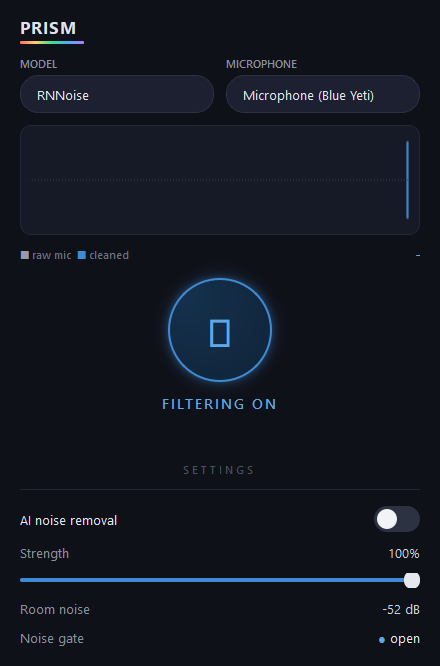
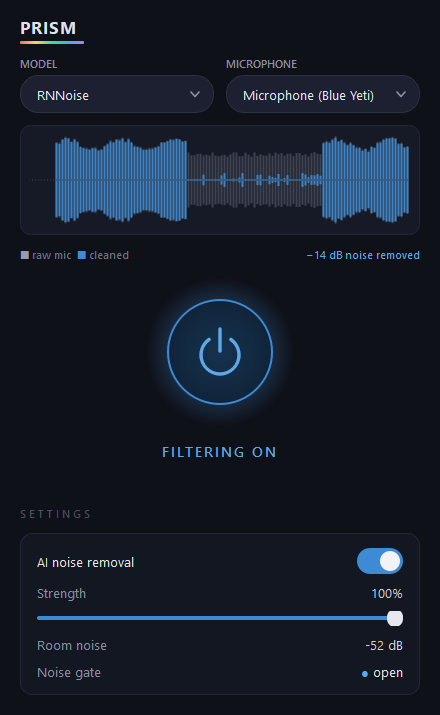
refactor(ui_qt): reimplement hero button and combo boxes

diff --git a/prism/ui_qt.py b/prism/ui_qt.py
@@ -13,16 +13,16 @@ it only *reads* pre-computed numbers, so it never touches the audio callback or
 does DSP.
 """
 
+import sys
 from collections import deque
 
 from PySide6.QtCore import (
-    Property, QEasingCurve, QPropertyAnimation, QRectF, Qt, QTimer,
+    Property, QEasingCurve, QPointF, QPropertyAnimation, QRectF, Qt, QTimer,
 )
-from PySide6.QtGui import QColor, QPainter, QPen
+from PySide6.QtGui import QColor, QPainter, QPen, QPolygonF, QRadialGradient
 from PySide6.QtWidgets import (
-    QApplication, QCheckBox, QComboBox, QFrame, QGraphicsDropShadowEffect,
-    QHBoxLayout, QLabel, QPushButton, QSizePolicy, QSlider, QVBoxLayout,
-    QWidget,
+    QApplication, QCheckBox, QComboBox, QFrame, QHBoxLayout, QLabel,
+    QPushButton, QSizePolicy, QSlider, QVBoxLayout, QWidget,
 )
 
 import sounddevice as sd
@@ -62,23 +62,17 @@ QLabel[class="fieldcap"] { color: #8b90a0; font-size: 11px; font-weight: 600; }
 QLabel[class="muted"] { color: #8b90a0; }
 QLabel[class="reading"] { color: #cfd3de; }
 QLabel[class="legend"] { color: #6d7284; font-size: 11px; }
+QLabel:disabled { color: #565b6a; }
+
+QFrame#card {
+    background: #131722; border: 1px solid #232838; border-radius: 12px;
+}
 
 QFrame#spectrum {
     border: none; max-height: 3px; min-height: 3px; border-radius: 1px;
     background: qlineargradient(x1:0, y1:0, x2:1, y2:0,
         stop:0 #ff6b6b, stop:0.25 #ffd166, stop:0.5 #37e08f,
         stop:0.75 #4dabf7, stop:1 #b57bff);
-}
-
-QPushButton#hero {
-    background: #1a1f2e; border: 2px solid #2c3242; border-radius: 52px;
-    font-size: 40px; font-family: 'Segoe UI Symbol'; color: #7d8296;
-}
-QPushButton#hero:hover { border-color: #3a4152; }
-QPushButton#hero:checked {
-    background: qradialgradient(cx:0.5, cy:0.5, radius:0.7,
-        stop:0 #16334f, stop:1 #10243a);
-    border-color: #3d8bd4; color: #5fa8e8;
 }
 
 /* Pill-shaped pickers (the two dropdowns up top share this look). */
@@ -88,6 +82,8 @@ QComboBox {
 }
 QComboBox:hover { border-color: #3a4152; }
 QComboBox::drop-down { border: none; width: 26px; }
+/* Blank the native arrow; PillCombo paints its own chevron. */
+QComboBox::down-arrow { image: none; width: 0; height: 0; border: none; }
 QComboBox QAbstractItemView {
     background: #1c2030; border: 1px solid #2c3242; border-radius: 6px;
     selection-background-color: #3d8bd4; outline: none;
@@ -98,8 +94,8 @@ QSlider::sub-page:horizontal { background: #3d8bd4; border-radius: 2px; }
 QSlider::handle:horizontal {
     width: 16px; margin: -7px 0; border-radius: 8px; background: #e6e8ee;
 }
-
-QFrame#hline { background: #232838; max-height: 1px; border: none; }
+QSlider::sub-page:horizontal:disabled { background: #3a4152; }
+QSlider::handle:horizontal:disabled { background: #6b7080; }
 """
 
 
@@ -175,6 +171,27 @@ class LevelScope(QWidget):
         p.drawLine(inset.left(), mid, inset.right(), mid)
 
 
+class PillCombo(QComboBox):
+    """A QComboBox that paints its own dropdown chevron.
+
+    Qt's QSS has no reliable way to draw an arrow without an image asset
+    (the CSS border-triangle trick renders as a filled rectangle), so the
+    pill look comes from the stylesheet and the chevron from QPainter.
+    """
+
+    def paintEvent(self, event):
+        super().paintEvent(event)
+        p = QPainter(self)
+        p.setRenderHint(QPainter.Antialiasing)
+        p.setPen(QPen(QColor("#8b90a0"), 1.6, Qt.SolidLine,
+                      Qt.RoundCap, Qt.RoundJoin))
+        cx = self.width() - 19.0
+        cy = self.height() / 2.0
+        p.drawPolyline(QPolygonF([QPointF(cx - 4, cy - 2),
+                                  QPointF(cx, cy + 2.5),
+                                  QPointF(cx + 4, cy - 2)]))
+
+
 class ToggleSwitch(QCheckBox):
     """A flat on/off switch: a rounded track with a sliding circular knob.
 
@@ -229,32 +246,122 @@ class ToggleSwitch(QCheckBox):
         p.drawEllipse(QRectF(x, margin, d, d))
 
 
-def _make_glow(button):
-    """A soft accent-colored halo behind the hero button that slowly breathes
-    while filtering is on. Driven by animating the drop shadow's blur radius;
-    call the returned setter with True/False as the hero toggles."""
-    glow = QGraphicsDropShadowEffect(button)
-    glow.setColor(QColor(61, 139, 212, 160))
-    glow.setOffset(0, 0)
-    glow.setBlurRadius(0)
-    button.setGraphicsEffect(glow)
+class PowerButton(QPushButton):
+    """The hero toggle: a circular button with a painted power symbol and a
+    breathing halo while filtering is on.
 
-    breath = QPropertyAnimation(glow, b"blurRadius", button)
-    breath.setDuration(2400)
-    breath.setStartValue(22)
-    breath.setKeyValueAt(0.5, 46)
-    breath.setEndValue(22)
-    breath.setEasingCurve(QEasingCurve.InOutSine)
-    breath.setLoopCount(-1)
+    Everything is drawn with QPainter, deliberately: the power glyph U+23FB
+    exists in no font on a stock Windows install, so a text "⏻" rendered as a
+    tofu box *and* stalled the window's first show() for seconds while Qt
+    scanned every installed font for a fallback (measured ~3s; it starved all
+    timers, freezing the scope and animations). The halo is likewise painted
+    here — a radial gradient in the widget's margin — instead of an animated
+    QGraphicsDropShadowEffect, which re-blurs on the CPU every frame.
+    """
 
-    def set_on(on):
+    _FACE = 104.0    # diameter of the button face
+    _MARGIN = 26.0   # room around the face for the halo
+
+    def __init__(self):
+        super().__init__()
+        self.setCheckable(True)
+        size = int(self._FACE + 2 * self._MARGIN)
+        self.setFixedSize(size, size)
+        self.setCursor(Qt.PointingHandCursor)
+        self._halo = 0.0  # 0..1 halo strength; breathes while filtering
+        self._breath = QPropertyAnimation(self, b"halo", self)
+        self._breath.setDuration(2400)
+        self._breath.setStartValue(0.45)
+        self._breath.setKeyValueAt(0.5, 1.0)
+        self._breath.setEndValue(0.45)
+        self._breath.setEasingCurve(QEasingCurve.InOutSine)
+        self._breath.setLoopCount(-1)
+
+    def set_glowing(self, on):
         if on:
-            breath.start()
+            self._breath.start()
         else:
-            breath.stop()
-            glow.setBlurRadius(0)
+            self._breath.stop()
+            self.set_halo(0.0)
 
-    return set_on
+    def get_halo(self):
+        return self._halo
+
+    def set_halo(self, value):
+        self._halo = value
+        self.update()  # repaint each animation tick
+
+    halo = Property(float, get_halo, set_halo)
+
+    def enterEvent(self, event):
+        super().enterEvent(event)
+        self.update()  # repaint for the hover border
+
+    def leaveEvent(self, event):
+        super().leaveEvent(event)
+        self.update()
+
+    def paintEvent(self, _event):
+        p = QPainter(self)
+        p.setRenderHint(QPainter.Antialiasing)
+        center = QRectF(self.rect()).center()
+        face_r = self._FACE / 2.0
+        on = self.isChecked()
+
+        if self._halo > 0.0:
+            glow_r = face_r + self._MARGIN * (0.4 + 0.6 * self._halo)
+            grad = QRadialGradient(center, glow_r)
+            edge = QColor(_ACCENT)
+            edge.setAlphaF(0.30 * self._halo)
+            fade = QColor(_ACCENT)
+            fade.setAlphaF(0.0)
+            grad.setColorAt(max(0.0, face_r / glow_r - 0.02), edge)
+            grad.setColorAt(1.0, fade)
+            p.setPen(Qt.NoPen)
+            p.setBrush(grad)
+            p.drawEllipse(center, glow_r, glow_r)
+
+        face = QRectF(center.x() - face_r, center.y() - face_r,
+                      2 * face_r, 2 * face_r)
+        if on:
+            fill = QRadialGradient(center, face_r)
+            fill.setColorAt(0.0, QColor("#16334f"))
+            fill.setColorAt(1.0, QColor("#10243a"))
+            p.setBrush(fill)
+            p.setPen(QPen(QColor(_ACCENT), 2))
+        else:
+            p.setBrush(QColor("#1a1f2e"))
+            hover = self.underMouse()
+            p.setPen(QPen(QColor("#3a4152" if hover else "#2c3242"), 2))
+        p.drawEllipse(face)
+
+        # Power symbol (IEC 5009): a ring with a gap at the top and a stem
+        # dropping through the gap.
+        icon_r = 19.0
+        color = QColor(_ACCENT_BRIGHT) if on else QColor("#7d8296")
+        p.setPen(QPen(color, 3.4, Qt.SolidLine, Qt.RoundCap))
+        ring = QRectF(center.x() - icon_r, center.y() - icon_r + 3,
+                      2 * icon_r, 2 * icon_r)
+        p.drawArc(ring, 125 * 16, 290 * 16)  # gap of 70 deg centered on top
+        p.drawLine(QPointF(center.x(), center.y() - icon_r - 4),
+                   QPointF(center.x(), center.y() - 1))
+
+
+def _dark_titlebar(widget):
+    """Ask DWM for a dark window frame so the title bar matches the UI.
+
+    Windows 10 20H1+ / Windows 11 only; a silent no-op anywhere else.
+    """
+    if sys.platform != "win32":
+        return
+    try:
+        import ctypes
+        value = ctypes.c_int(1)
+        ctypes.windll.dwmapi.DwmSetWindowAttribute(
+            int(widget.winId()), 20,  # DWMWA_USE_IMMERSIVE_DARK_MODE
+            ctypes.byref(value), ctypes.sizeof(value))
+    except Exception:
+        pass
 
 
 def _preselect_index(devices, current_name):
@@ -339,11 +446,11 @@ def run_ui(engine):
     outer.addLayout(title_row)
 
     # --- Top pickers: Model | Microphone (two pills side by side) -------------
-    model_combo = QComboBox()
+    model_combo = PillCombo()
     model_combo.addItems([label for label, _ in _DENOISER_OPTIONS])
     model_combo.setSizePolicy(QSizePolicy.Expanding, QSizePolicy.Fixed)
 
-    mic_combo = QComboBox()
+    mic_combo = PillCombo()
     mic_combo.addItems([name for _, name in devices])
     mic_combo.setSizePolicy(QSizePolicy.Expanding, QSizePolicy.Fixed)
     if devices:
@@ -370,19 +477,14 @@ def run_ui(engine):
     outer.addLayout(_row(legend, reduction_val))
 
     # --- Hero power button ----------------------------------------------------
-    hero = QPushButton("⏻")  # power symbol
-    hero.setObjectName("hero")
-    hero.setCheckable(True)
+    hero = PowerButton()
     hero.setChecked(engine.enabled)
-    hero.setFixedSize(104, 104)
-    hero.setCursor(Qt.PointingHandCursor)
-    set_glow = _make_glow(hero)
+    set_glow = hero.set_glowing
 
     hero_row = QHBoxLayout()
     hero_row.addStretch(1)
     hero_row.addWidget(hero)
     hero_row.addStretch(1)
-    outer.addSpacing(4)
     outer.addLayout(hero_row)
 
     hero_state = QLabel()
@@ -405,25 +507,26 @@ def run_ui(engine):
         # transient messages (switching a model, a device error).
         status.setText("")
 
-    # --- Settings divider -----------------------------------------------------
-    outer.addSpacing(8)
+    # --- Settings card ----------------------------------------------------------
+    outer.addSpacing(4)
     divider = QLabel("SETTINGS")
     divider.setObjectName("divider")
-    divider.setAlignment(Qt.AlignCenter)
     outer.addWidget(divider)
-    line = QFrame()
-    line.setObjectName("hline")
-    line.setFrameShape(QFrame.HLine)
-    outer.addWidget(line)
-    outer.addSpacing(4)
 
-    # --- AI noise removal: toggle ---------------------------------------------
+    card = QFrame()
+    card.setObjectName("card")
+    card_lay = QVBoxLayout(card)
+    card_lay.setContentsMargins(16, 14, 16, 14)
+    card_lay.setSpacing(10)
+    outer.addWidget(card)
+
+    # AI noise removal toggle
     denoise_check = ToggleSwitch()
     denoise_check.setChecked(engine.denoiser_enabled)
     denoise_cap = QLabel("AI noise removal")
-    outer.addLayout(_row(denoise_cap, denoise_check))
+    card_lay.addLayout(_row(denoise_cap, denoise_check))
 
-    # --- Strength slider ------------------------------------------------------
+    # Strength slider (dimmed while AI noise removal is off)
     strength = QSlider(Qt.Horizontal)
     strength.setRange(0, 100)
     strength.setValue(int(round(engine.denoiser_mix * 100.0)))
@@ -431,20 +534,24 @@ def run_ui(engine):
     strength_cap.setProperty("class", "muted")
     strength_val = _reading(f"{int(round(engine.denoiser_mix * 100.0))}%")
     strength_val.setProperty("class", "reading")
-    outer.addLayout(_row(strength_cap, strength_val))
-    outer.addWidget(strength)
+    card_lay.addLayout(_row(strength_cap, strength_val))
+    card_lay.addWidget(strength)
 
-    # --- Readings: room noise + gate --------------------------------------------
+    # Readings: room noise + gate
     floor_cap = QLabel("Room noise")
     floor_cap.setProperty("class", "muted")
     floor_val = _reading("-- dB")
     floor_val.setProperty("class", "reading")
-    outer.addLayout(_row(floor_cap, floor_val))
+    card_lay.addLayout(_row(floor_cap, floor_val))
 
     gate_cap = QLabel("Noise gate")
     gate_cap.setProperty("class", "muted")
     gate_val = _reading("")
-    outer.addLayout(_row(gate_cap, gate_val))
+    card_lay.addLayout(_row(gate_cap, gate_val))
+
+    def sync_strength(enabled):
+        for w in (strength, strength_cap, strength_val):
+            w.setEnabled(enabled)
 
     # --- Handlers -------------------------------------------------------------
     def _active_model_label():
@@ -487,6 +594,7 @@ def run_ui(engine):
 
     hero.clicked.connect(on_hero)
     denoise_check.toggled.connect(on_denoise_toggle)
+    denoise_check.toggled.connect(sync_strength)
     strength.valueChanged.connect(on_strength)
     model_combo.currentIndexChanged.connect(on_model_selected)
     mic_combo.activated.connect(on_mic_selected)
@@ -496,7 +604,7 @@ def run_ui(engine):
         denoise_check.setChecked(False)
         denoise_check.setEnabled(False)
         model_combo.setEnabled(False)
-        strength.setEnabled(False)
+    sync_strength(denoise_check.isChecked())
 
     describe()
 
@@ -529,6 +637,7 @@ def run_ui(engine):
     # as the loop exits. aboutToQuit fires reliably where an instance-level
     # closeEvent override on a plain QWidget would not.
     app.aboutToQuit.connect(engine.stop)
+    _dark_titlebar(root)
     root.show()
     app.exec()
 